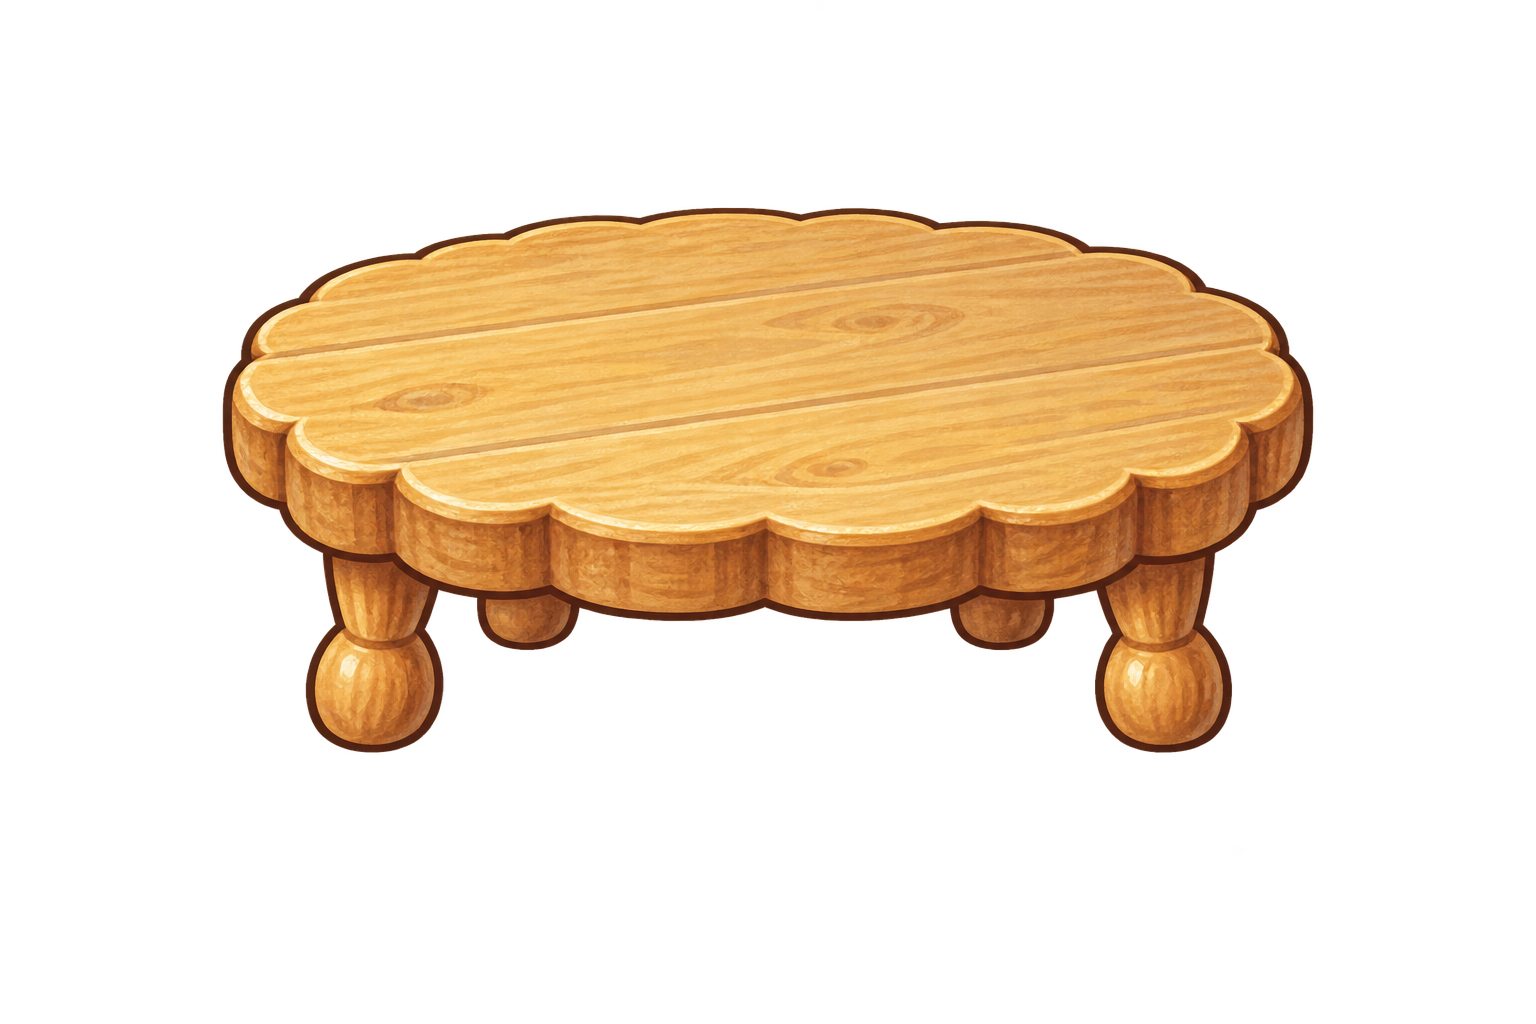
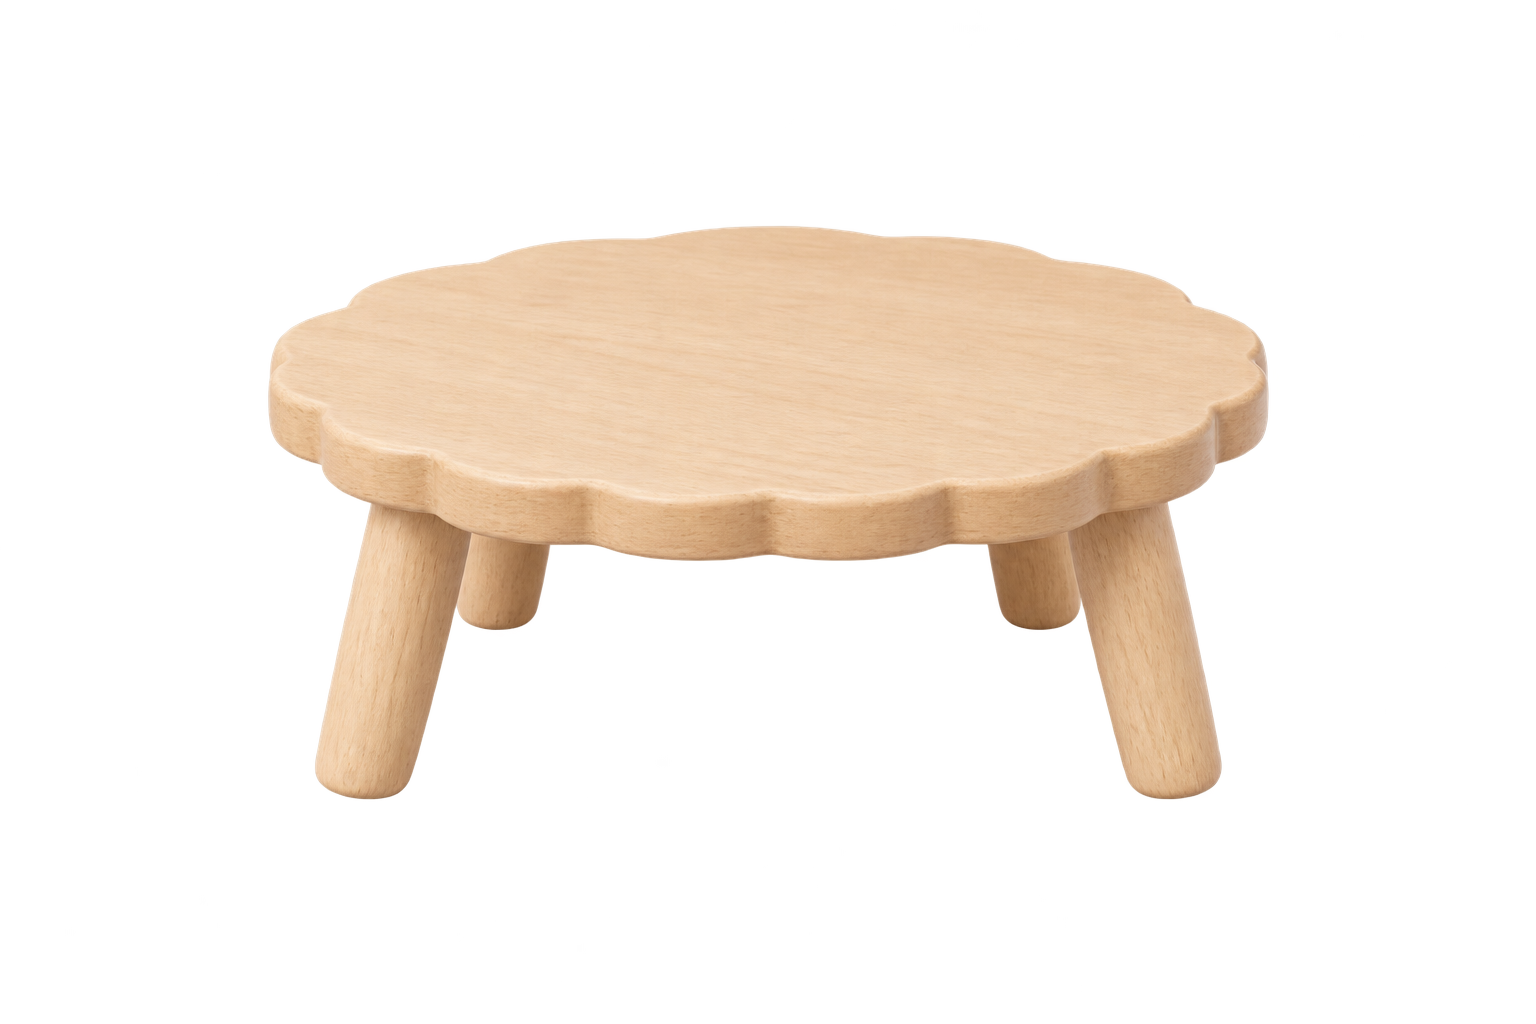
art: refine miniature shop pilot assets

Changed region(s): [[0.125, 0.1875, 0.875, 0.7812]]

diff --git a/assets/illustrated/README.md b/assets/illustrated/README.md
@@ -1,6 +1,6 @@
 # Illustrated pilot assets
 
-This is the first finished visual set for the room redesign: a sunny miniature dollhouse room, rabbit and cat companions, three reusable shop furniture sprites, and one birthday memory-table sprite. The visual direction is a miniature dollhouse product set: compact rounded geometry, soft plush animal bodies, pale wood and muted pastel materials, and uncluttered isometric presentation. The room keeps its central rug open for four companion sprites; all other PNG files are transparent where they are rendered as sprites.
+This is the first finished visual set for the room redesign: a sunny miniature dollhouse room, rabbit and cat companions, three reusable shop furniture sprites, and one birthday memory-table sprite. The visual direction is a miniature dollhouse product set: compact rounded geometry, soft plush animal bodies, pale wood and muted pastel materials, and uncluttered isometric presentation. The three shop sprites are a low bouclé shell cushion, a pale-wood cookie-edge table, and a matte clay rubber tree; they deliberately avoid busy illustrated scenes and product-photo backgrounds. The room keeps its central rug open for four companion sprites; all other PNG files are transparent where they are rendered as sprites.
 
 The catalog remains intentionally mixed during production: `cushion-shell`, `table-round-cookie`, `plant-round-rubber-tree`, and `memory-dining-table-birthday-table` use these finished assets, while the remaining catalog entries resolve through the same manifest with placeholders. This preserves the catalog, room, shop, inventory, and memory-furniture contract while the rest of the art is commissioned or replaced.
 

diff --git a/docs/progress.md b/docs/progress.md
@@ -202,7 +202,7 @@ Build를 설치한 실제 기기에서 별도로 기록한다.
 - 방: 햇살 창가 방을 중앙 러그가 비어 있는 미니어처 dollhouse 무대로 교체 완료
 - 동물: 토끼·고양이 본체를 미니어처 봉제 인형 스타일로 교체 완료, 나머지 종과 본체
   애니메이션은 제작 전
-- 상점 아이템 40종: 카탈로그·렌더 메타데이터 완료, 쿠션·탁자·고무나무 3종은 완성 일러스트, 나머지는 placeholder
+- 상점 아이템 40종: 카탈로그·렌더 메타데이터 완료, 쿠션·탁자·고무나무 3종은 미니어처 제품 톤의 완성 PNG(봉제·목재·점토 재질), 나머지는 placeholder
 - 추억 가구 15종: 카탈로그·렌더 메타데이터 완료, 생일 식탁 1종은 완성 일러스트,
   나머지는 placeholder
 - 개발용 에셋 목록 화면: `/dev/assets` 구현, 데모 모드에서만 내용 표시

diff --git a/docs/decisions.md b/docs/decisions.md
@@ -305,3 +305,5 @@
   방 모형처럼 일관된 스케일·재질·가독성을 유지하기 위해서다.
 - 비용: 털·목재 표현은 촉감만 전달하는 수준으로 제한하며, 개별 에셋의 스타일 변형은
   먼저 파일럿 방 화면에서 확인한 뒤 확대한다.
+  현재 상점 파일럿은 낮은 봉제 쿠션, 옅은 목재 탁자, 무광 점토 화분까지 같은 기준으로
+  교체했으며, 나머지 placeholder를 최종 에셋으로 대체할 때도 이 기준을 따른다.
